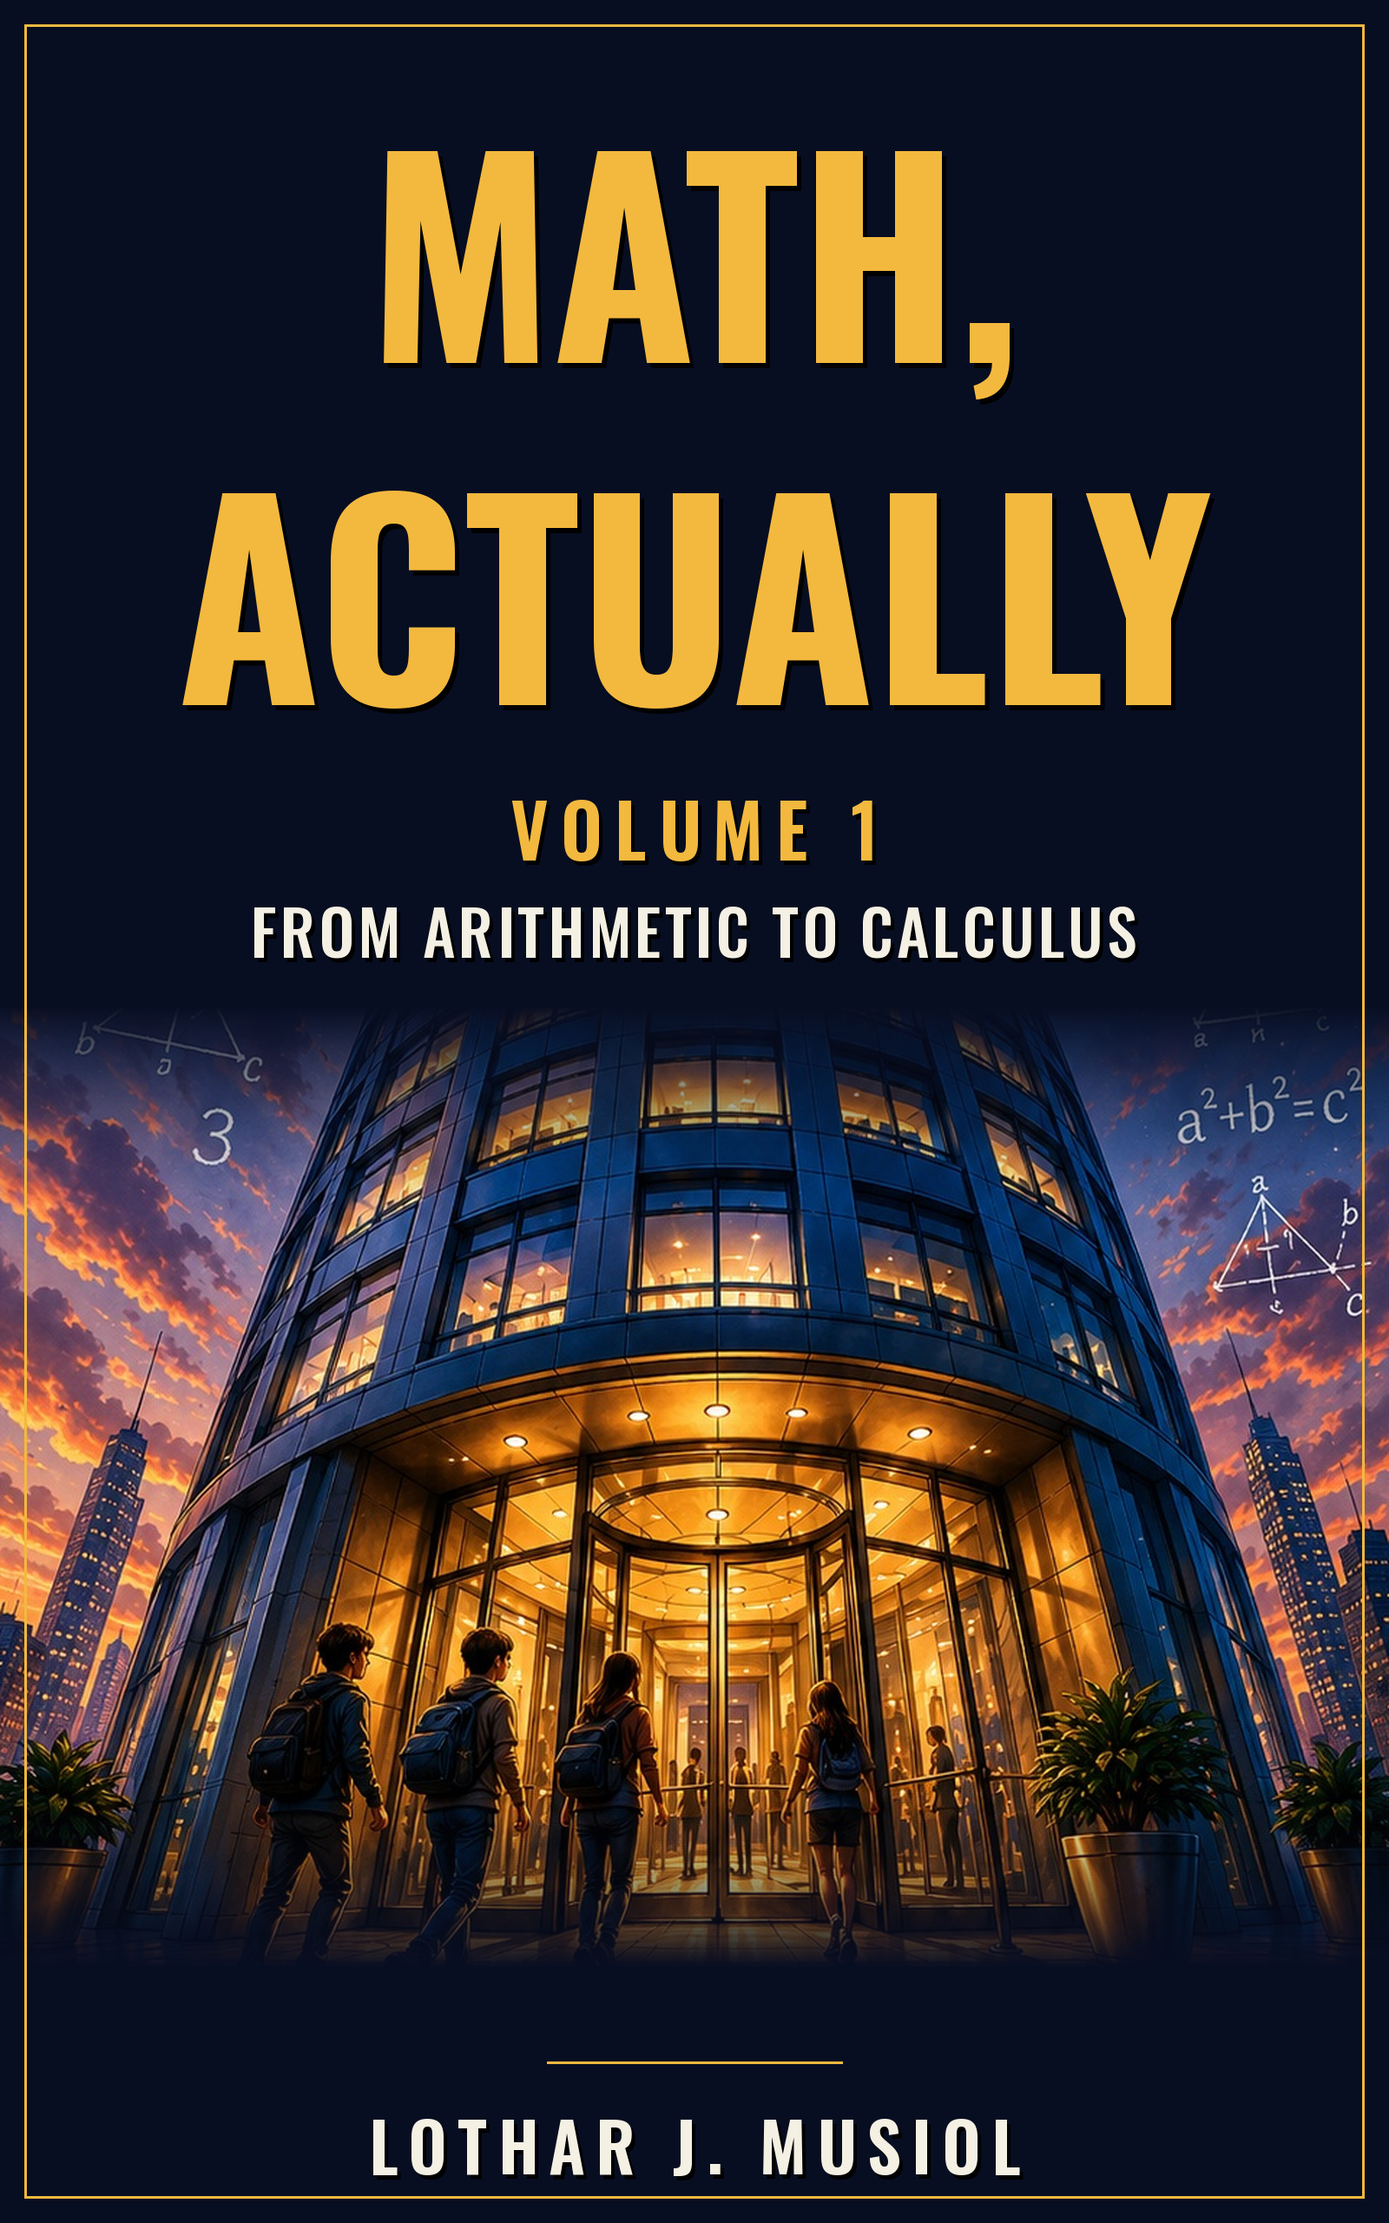
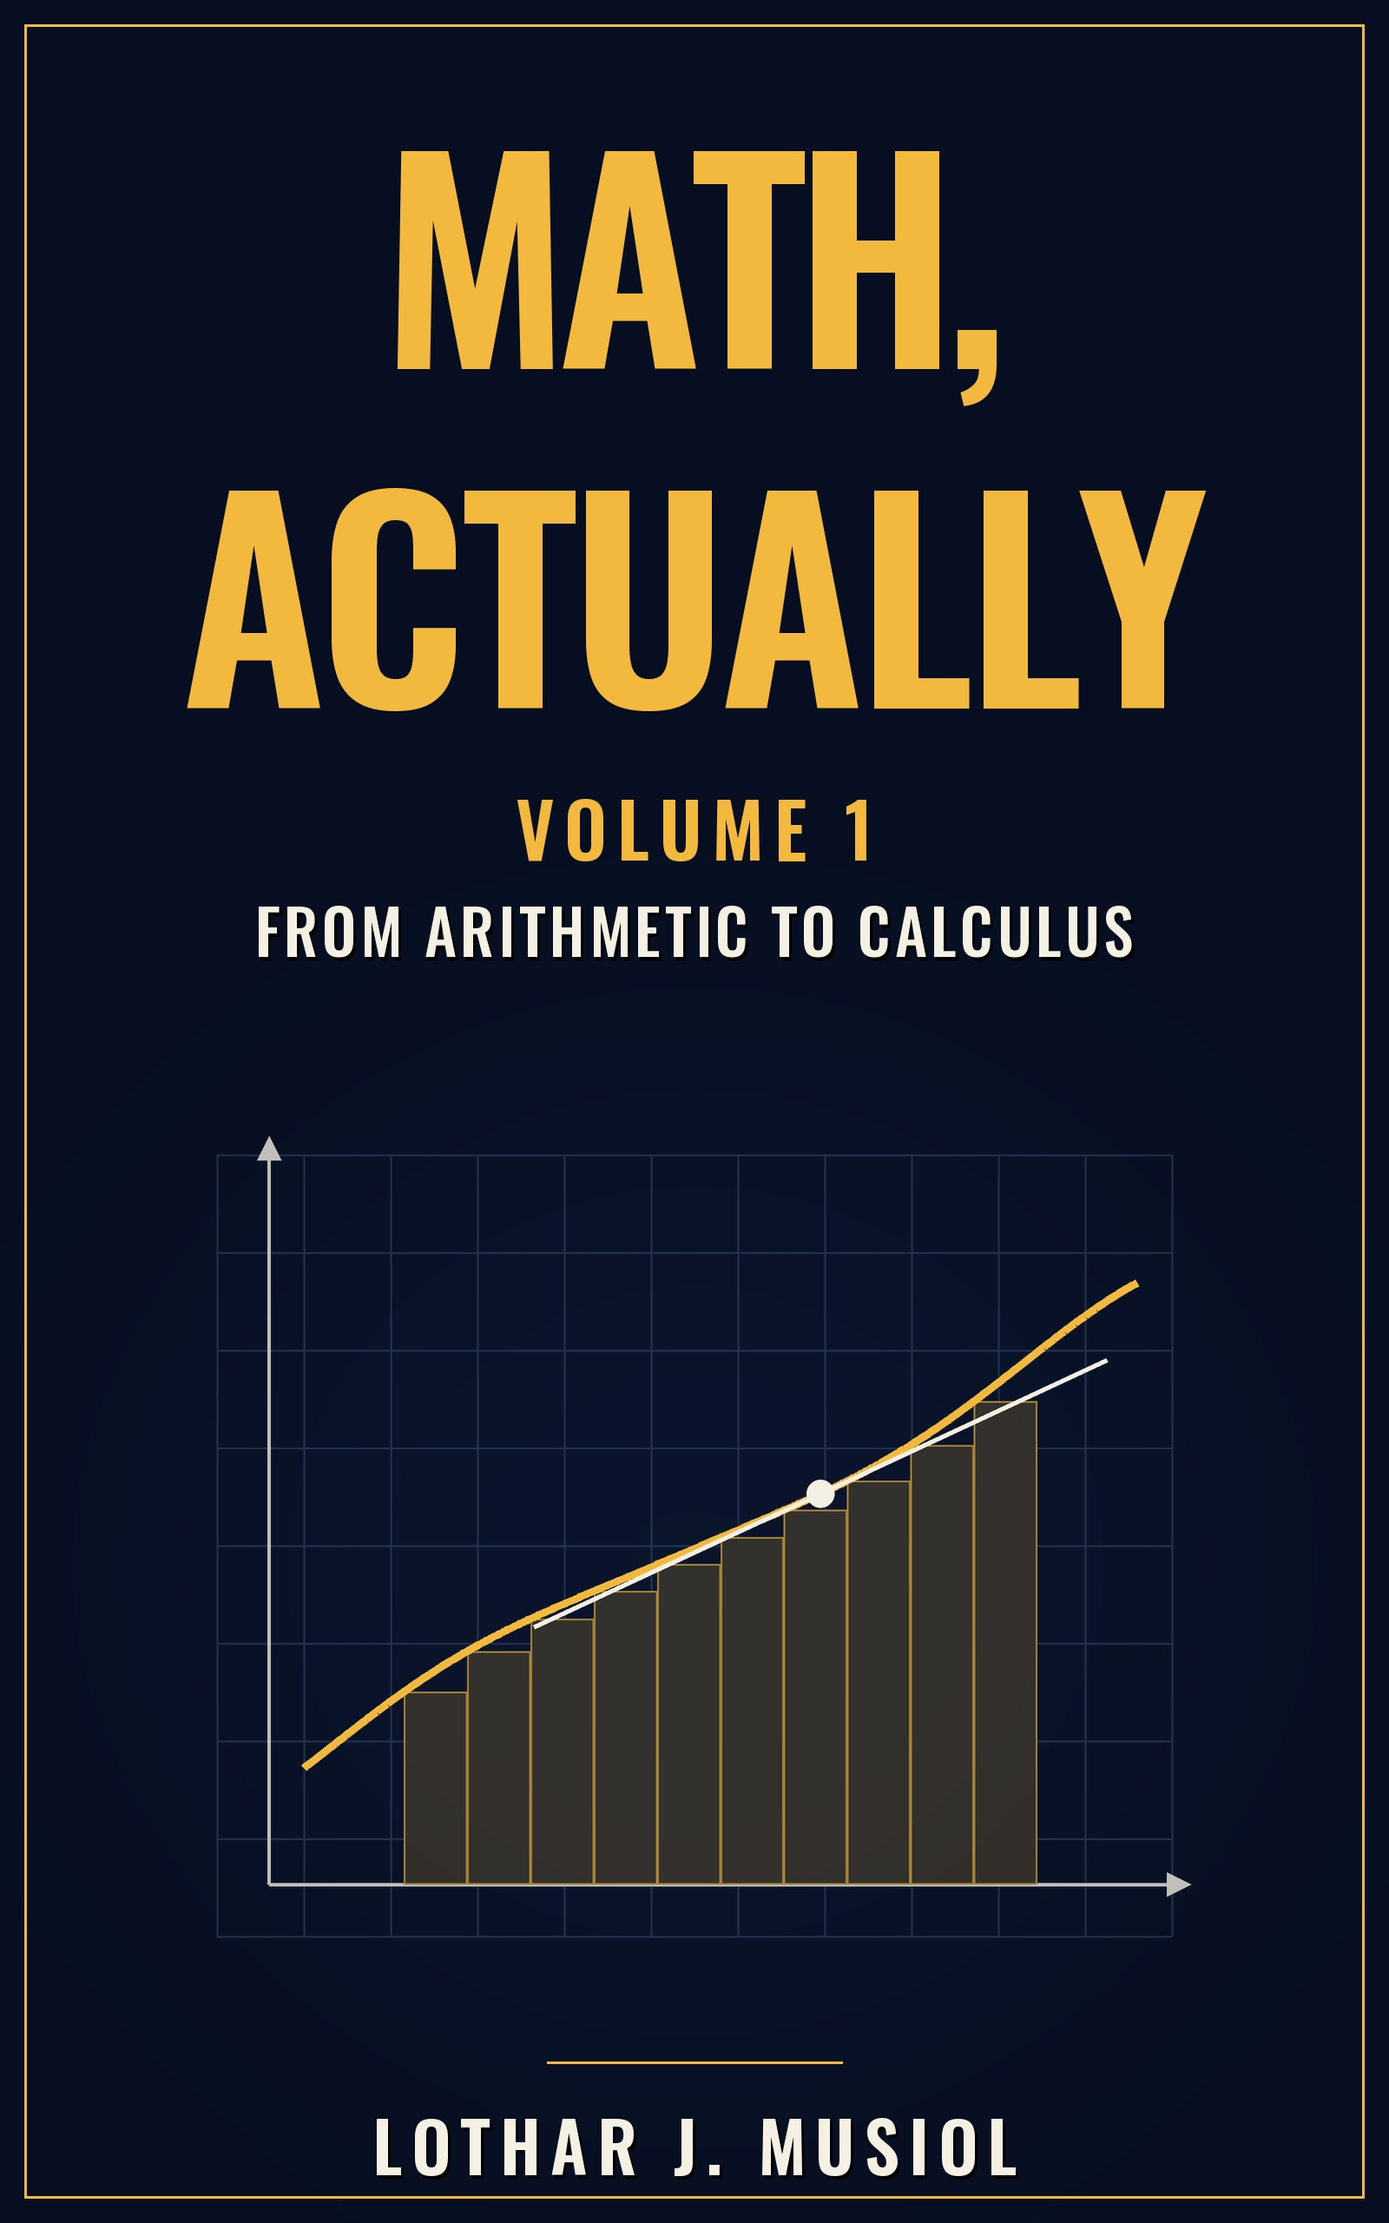
Math, Actually Vols 1-4: front covers redrawn by script without the building (navy and gold, same Oswald typography; motifs: curve with Riemann rectangles and tangent, saddle surface, phase portrait, commutative square); old covers in bak; SCORES front-cover cells

diff --git a/Math, Actually - SERIES/scripts/make_ma_front_covers.py b/Math, Actually - SERIES/scripts/make_ma_front_covers.py
@@ -1,0 +1,185 @@
+"""Math, Actually - Kindle front covers, Volumes 1-4 (1600x2560), drawn by script.
+Navy and gold, Oswald type as on the earlier covers; the illustration band is a mathematical
+motif per volume instead of the building scenes:
+  1 From Arithmetic to Calculus          - a curve on a grid, Riemann rectangles and a tangent
+  2 From Multivariable Calculus to Logic - a saddle surface z = x^2 - y^2 as a wire mesh
+  3 From Differential Equations to Algebra - phase portrait of a damped oscillator
+  4 From Category Theory to the Frontier - a commutative square with its diagonal
+Fonts: Oswald, EB Garamond (Google Fonts, OFL). Set GOOGLE_FONTS to their folder if not on the box.
+Usage: python make_ma_front_covers.py [out_dir]   -> "Cover  Volume N.jpg" """
+import os, sys, math
+from PIL import Image, ImageDraw, ImageFont, ImageFilter
+G = os.environ.get('GOOGLE_FONTS', '/usr/share/fonts/truetype/sand-box/google/')
+OUT = sys.argv[1] if len(sys.argv) > 1 else '.'
+W, H = 1600, 2560
+NAVY = (7, 14, 33); GOLD = (243, 185, 62); CREAM = (244, 240, 228); BLUE = (120, 160, 215)
+VOLS = {1: ['FROM ARITHMETIC TO CALCULUS'], 2: ['FROM MULTIVARIABLE CALCULUS', 'TO SET THEORY & LOGIC'],
+        3: ['FROM DIFFERENTIAL EQUATIONS', 'TO ABSTRACT ALGEBRA'], 4: ['FROM CATEGORY THEORY', 'TO THE FRONTIER']}
+
+def oswald(size, wght=600):
+    f = ImageFont.truetype(G + 'Oswald/Oswald-VariableFont_wght.ttf', size)
+    try: f.set_variation_by_axes([wght])
+    except Exception: pass
+    return f
+def garamond(size, italic=True):
+    p = G + ('EB_Garamond/EBGaramond-Italic-VariableFont_wght.ttf' if italic else 'EB_Garamond/EBGaramond-VariableFont_wght.ttf')
+    return ImageFont.truetype(p, size)
+
+def tracked(d, cx, top, text, font, track, fill, shadow=False):
+    """Centre text at cx with letter spacing; top = top of the capitals."""
+    widths = [d.textlength(c, font=font) for c in text]
+    total = sum(widths) + track * (len(text) - 1)
+    asc = font.getbbox('H')[1]
+    x = cx - total / 2
+    for c, w in zip(text, widths):
+        if shadow: d.text((x + 3, top - asc + 4), c, font=font, fill=(0, 0, 0))
+        d.text((x, top - asc), c, font=font, fill=fill); x += w + track
+    return total
+
+def fit(text, cap, width, wght):
+    """font size giving this cap height, and the tracking giving this width"""
+    s = 20
+    while True:
+        f = oswald(s, wght); b = f.getbbox('H')
+        if b[3] - b[1] >= cap: break
+        s += 1
+    tmp = ImageDraw.Draw(Image.new('RGB', (10, 10)))
+    w0 = sum(tmp.textlength(c, font=f) for c in text)
+    return f, (width - w0) / max(1, len(text) - 1)
+
+def base(vol):
+    img = Image.new('RGB', (W, H), NAVY)
+    # a faint glow behind the motif
+    glow = Image.new('L', (W, H), 0); gd = ImageDraw.Draw(glow)
+    gd.ellipse((200, 1250, 1400, 2350), fill=60); glow = glow.filter(ImageFilter.GaussianBlur(220))
+    img = Image.composite(Image.new('RGB', (W, H), (22, 38, 78)), img, glow)
+    d = ImageDraw.Draw(img)
+    d.rectangle((28, 28, W - 29, H - 29), outline=GOLD, width=3)
+    f, t = fit('MATH,', 250, 720, 600); tracked(d, W / 2, 174, 'MATH,', f, t, GOLD)
+    f, t = fit('ACTUALLY', 250, 1182, 600); tracked(d, W / 2, 565, 'ACTUALLY', f, t, GOLD)
+    f, t = fit('VOLUME %d' % vol, 70, 413, 600); tracked(d, W / 2, 921, 'VOLUME %d' % vol, f, t, GOLD)
+    fs, ts = fit('FROM ARITHMETIC TO CALCULUS', 58, 1013, 500)
+    y = 1044
+    for line in VOLS[vol]:
+        tracked(d, W / 2, y, line, fs, ts, CREAM, shadow=True); y += 102
+    d.line((630, 2375, 970, 2375), fill=GOLD, width=3)
+    f, t = fit('LOTHAR J. MUSIOL', 65, 743, 600); tracked(d, W / 2, 2440, 'LOTHAR J. MUSIOL', f, t, CREAM, shadow=True)
+    return img
+
+S = 2  # supersampling for the line art
+def layer():
+    return Image.new('RGBA', (W * S, H * S), (0, 0, 0, 0))
+def P(x, y): return (x * S, y * S)
+
+def motif1(L):
+    d = ImageDraw.Draw(L)
+    x0, x1, y0, y1 = 250, 1350, 1330, 2230          # plot box
+    for i in range(12):
+        x = x0 + i * (x1 - x0) / 11; d.line([P(x, y0), P(x, y1)], fill=BLUE + (55,), width=2 * S)
+    for i in range(9):
+        y = y0 + i * (y1 - y0) / 8; d.line([P(x0, y), P(x1, y)], fill=BLUE + (55,), width=2 * S)
+    ax, ay = x0 + 60, y1 - 60
+    d.line([P(ax, ay), P(x1, ay)], fill=CREAM + (200,), width=4 * S); d.line([P(ax, ay), P(ax, y0)], fill=CREAM + (200,), width=4 * S)
+    d.polygon([P(x1 + 22, ay), P(x1 - 6, ay - 14), P(x1 - 6, ay + 14)], fill=CREAM + (200,))
+    d.polygon([P(ax, y0 - 22), P(ax - 14, y0 + 6), P(ax + 14, y0 + 6)], fill=CREAM + (200,))
+    f = lambda u: ay - (120 + 520 * (0.5 + 0.5 * math.tanh((u - 0.45) * 4)) + 90 * math.sin(u * 7))  # u in 0..1
+    X = lambda u: ax + 40 + u * (x1 - ax - 80)
+    n = 10; a, b = 0.12, 0.88
+    for k in range(n):
+        u = a + (b - a) * k / n; u2 = a + (b - a) * (k + 1) / n
+        top = f(u)
+        d.rectangle([P(X(u), top), P(X(u2), ay)], fill=GOLD + (45,), outline=GOLD + (170,), width=2 * S)
+    pts = [P(X(u / 400), f(u / 400)) for u in range(0, 401)]
+    d.line(pts, fill=GOLD + (255,), width=9 * S, joint='curve')
+    u = 0.62; h = 1e-4; slope = (f(u + h) - f(u - h)) / (X(u + h) - X(u - h))
+    px, py = X(u), f(u); dx = 330
+    d.line([P(px - dx, py - slope * dx), P(px + dx, py + slope * dx)], fill=CREAM + (255,), width=5 * S)
+    d.ellipse([P(px - 16, py - 16), P(px + 16, py + 16)], fill=CREAM + (255,))
+
+def motif2(L):
+    d = ImageDraw.Draw(L)
+    cx, cy, sc = 800, 1800, 360
+    ca, sa = math.cos(math.radians(35)), math.sin(math.radians(35))
+    def proj(x, y):
+        z = x * x - y * y
+        az = math.radians(28); X = x * math.cos(az) - y * math.sin(az); Y = (x * math.sin(az) + y * math.cos(az)) * 0.5 - z * 0.5
+        return P(cx + X * sc * 1.05, cy + Y * sc)
+    N = 14; R = 1.25
+    for i in range(N + 1):
+        t = -R + 2 * R * i / N
+        a = [proj(t, -R + 2 * R * k / 120) for k in range(121)]
+        b = [proj(-R + 2 * R * k / 120, t) for k in range(121)]
+        w = 6 if i in (0, N, N // 2) else 3
+        d.line(a, fill=GOLD + (235 if w == 6 else 170,), width=w * S, joint='curve')
+        d.line(b, fill=BLUE + (230 if w == 6 else 150,), width=w * S, joint='curve')
+    # the saddle point
+    x, y = proj(0, 0); d.ellipse([x - 16 * S, y - 16 * S, x + 16 * S, y + 16 * S], fill=CREAM + (255,))
+
+def motif3(L):
+    d = ImageDraw.Draw(L)
+    cx, cy, sc = 800, 1790, 175
+    F = lambda x, y: (y, -x - 0.35 * y)
+    for i in range(-7, 8):
+        for j in range(-5, 6):
+            x, y = i * 0.6, j * 0.6
+            u, v = F(x, y); m = math.hypot(u, v) or 1
+            l = 0.22
+            x2, y2 = x + u / m * l, y + v / m * l
+            p1, p2 = (cx + x * sc, cy - y * sc), (cx + x2 * sc, cy - y2 * sc)
+            if not (230 < p1[0] < 1370 and 1300 < p1[1] < 2270): continue
+            d.line([P(*p1), P(*p2)], fill=BLUE + (120,), width=3 * S)
+            ang = math.atan2(p2[1] - p1[1], p2[0] - p1[0])
+            for s in (2.6, -2.6):
+                d.line([P(*p2), P(p2[0] - 12 * math.cos(ang + s), p2[1] - 12 * math.sin(ang + s))], fill=BLUE + (120,), width=3 * S)
+    for (x, y) in [(3.0, 0.0), (-3.0, 0.5), (0.0, 2.6), (0.5, -2.7)]:
+        pts = []
+        for k in range(4000):
+            if not (230 < cx + x * sc < 1370 and 1300 < cy - y * sc < 2270): break
+            pts.append(P(cx + x * sc, cy - y * sc))
+            u, v = F(x, y); x += u * 0.004; y += v * 0.004
+        d.line(pts, fill=GOLD + (240,), width=6 * S, joint='curve')
+    d.ellipse([P(cx - 15, cy - 15), P(cx + 15, cy + 15)], fill=CREAM + (255,))
+
+def arrow(d, a, b, col, w, curve=0, dash=False, r=70):
+    (x1, y1), (x2, y2) = a, b
+    L = math.hypot(x2 - x1, y2 - y1); ux, uy = (x2 - x1) / L, (y2 - y1) / L
+    sx, sy, ex, ey = x1 + ux * r, y1 + uy * r, x2 - ux * r, y2 - uy * r
+    mx, my = (sx + ex) / 2 - uy * curve, (sy + ey) / 2 + ux * curve
+    pts = [((1 - t) ** 2 * sx + 2 * (1 - t) * t * mx + t * t * ex, (1 - t) ** 2 * sy + 2 * (1 - t) * t * my + t * t * ey) for t in [k / 60 for k in range(61)]]
+    if dash:
+        for k in range(0, 60, 4): d.line([P(*pts[k]), P(*pts[k + 2])], fill=col, width=w * S)
+    else: d.line([P(*p) for p in pts], fill=col, width=w * S, joint='curve')
+    tx, ty = pts[-1][0] - pts[-3][0], pts[-1][1] - pts[-3][1]; ang = math.atan2(ty, tx)
+    d.polygon([P(ex + 6 * math.cos(ang), ey + 6 * math.sin(ang)), P(ex - 34 * math.cos(ang - 0.42), ey - 34 * math.sin(ang - 0.42)),
+               P(ex - 34 * math.cos(ang + 0.42), ey - 34 * math.sin(ang + 0.42))], fill=col)
+    return pts[30]
+
+def motif4(L):
+    d = ImageDraw.Draw(L)
+    # faint concentric rings and spokes behind the diagram
+    cx, cy = 800, 1790
+    for r in range(120, 640, 85): d.ellipse([P(cx - r, cy - r), P(cx + r, cy + r)], outline=BLUE + (45,), width=2 * S)
+    A, B, C, D = (430, 1440), (1170, 1440), (430, 2140), (1170, 2140)
+    fl = garamond(76 * S); fs = garamond(64 * S)
+    for p, lab in ((A, 'A'), (B, 'B'), (C, 'C'), (D, 'D')):
+        d.ellipse([P(p[0] - 62, p[1] - 62), P(p[0] + 62, p[1] + 62)], fill=NAVY + (255,), outline=GOLD + (255,), width=5 * S)
+        d.text(P(*p), lab, font=fl, fill=CREAM + (255,), anchor='mm')
+    def lab(pt, t, dx, dy): d.text(P(pt[0] + dx, pt[1] + dy), t, font=fs, fill=CREAM + (235,), anchor='mm')
+    m = arrow(d, A, B, GOLD + (255,), 7); lab(m, 'f', 0, -50)
+    m = arrow(d, B, D, GOLD + (255,), 7); lab(m, 'g', 45, 0)
+    m = arrow(d, A, C, GOLD + (255,), 7); lab(m, 'h', -45, 0)
+    m = arrow(d, C, D, GOLD + (255,), 7); lab(m, 'k', 0, 52)
+    m = arrow(d, A, D, BLUE + (230,), 5, dash=True); lab(m, '', 0, 0)
+    d.text(P(cx + 90, cy - 110), 'gf = kh', font=garamond(66 * S), fill=BLUE + (240,), anchor='lm')
+
+def make(vol):
+    img = base(vol)
+    L = layer(); [None, motif1, motif2, motif3, motif4][vol](L)
+    L = L.resize((W, H), Image.LANCZOS)
+    img.paste(L, (0, 0), L)
+    return img
+
+if __name__ == '__main__':
+    for v in (1, 2, 3, 4):
+        im = make(v); im.save(os.path.join(OUT, 'Cover  Volume %d.jpg' % v), quality=92)
+    print('done')

diff --git a/SCORES.md b/SCORES.md
@@ -15,10 +15,10 @@ Release order covers unpublished books only. Rules: highest score with finished 
 | The Permitted Options | Lolly Wren's Curious Science Adventures, Book 2 | ready | 9.1 (10 Oct 2026, strict; 8.6 before that day's fixes) | done (series trade dress, flat illustration) | done (single colour, text only) | good | 0.23 | Paperback wrap once the print page count is final; then upload | 6 (week of 26 Oct) |
 | A Trip Is Not a New Life | Look First, Vol 2 | draft | 8.7 (date not recorded) | missing | missing | good | 1.94 | Make the covers; write the KDP description | 16 (week of 30 Nov) |
 | The Warning That Was Sent Too Late | The Relativistic Investigation Bureau, Book 2 | ready | 8.9 (11 Oct 2026, strict, full read-through; 8.7 on 10 Oct, 8.4 before that day's fixes) | done (Book 1's trade dress, 1600 x 2560, scripts/make_covers.py) | done (single colour, text only) | good | 0.16 | Upload after Book 1: KDP.md has the description, 7 keywords and 3 categories. Optional: tighten the middle chapters' pacing | 8 (week of 2 Nov) |
-| Math, Actually, Volume 1: From Arithmetic to Calculus | Math, Actually, Vol 1 | ready | 9.1 (10 Oct 2026, strict, sampled reread; 8.6 before that day's fixes) | done (2 Oct Math, Actually cover, back in the folder) | done (text-only, navy and gold) | poor | 1.90 | Upload; cover picture still draws a building (art call) | 12 (week of 16 Nov) |
-| Math, Actually, Volume 2: From Multivariable Calculus to Set Theory & Logic | Math, Actually, Vol 2 | ready | 9.0 (10 Oct 2026, strict, sampled reread; 8.5 before) | done (2 Oct cover, back in the folder) | done (text-only, navy and gold) | poor | 2.64 | Upload after Vol 1; cover picture still draws a building (art call) | 13 (week of 23 Nov) |
-| Math, Actually, Volume 3: From Differential Equations to Abstract Algebra | Math, Actually, Vol 3 | ready | 9.1 (10 Oct 2026, strict, sampled reread; 8.7 before) | done (2 Oct cover, back in the folder) | done (text-only, navy and gold) | poor | 2.38 | Upload after Vol 2; cover picture still draws a building (art call) | 14 (week of 23 Nov) |
-| Math, Actually, Volume 4: From Category Theory to the Frontier | Math, Actually, Vol 4 | ready | 9.1 (10 Oct 2026, strict, sampled reread; 8.8 before) | done | done (text-only, navy and gold) | poor | 2.76 | Upload after Vol 3 | 15 (week of 30 Nov) |
+| Math, Actually, Volume 1: From Arithmetic to Calculus | Math, Actually, Vol 1 | ready | 9.1 (10 Oct 2026, strict, sampled reread; 8.6 before that day's fixes) | done (redrawn 10 Oct 2026 by script: navy and gold, a curve on a grid with Riemann rectangles and a tangent, no building; old cover in bak) | done (text-only, navy and gold) | poor | 1.90 | Upload; cover picture still draws a building (art call) | 12 (week of 16 Nov) |
+| Math, Actually, Volume 2: From Multivariable Calculus to Set Theory & Logic | Math, Actually, Vol 2 | ready | 9.0 (10 Oct 2026, strict, sampled reread; 8.5 before) | done (redrawn 10 Oct 2026 by script: navy and gold, a saddle-surface wire mesh, no building; old cover in bak) | done (text-only, navy and gold) | poor | 2.64 | Upload after Vol 1; cover picture still draws a building (art call) | 13 (week of 23 Nov) |
+| Math, Actually, Volume 3: From Differential Equations to Abstract Algebra | Math, Actually, Vol 3 | ready | 9.1 (10 Oct 2026, strict, sampled reread; 8.7 before) | done (redrawn 10 Oct 2026 by script: navy and gold, a phase portrait spiralling into a sink, no building; old cover in bak) | done (text-only, navy and gold) | poor | 2.38 | Upload after Vol 2; cover picture still draws a building (art call) | 14 (week of 23 Nov) |
+| Math, Actually, Volume 4: From Category Theory to the Frontier | Math, Actually, Vol 4 | ready | 9.1 (10 Oct 2026, strict, sampled reread; 8.8 before) | done (redrawn 10 Oct 2026 by script: navy and gold, a commutative square, no building; old cover in bak) | done (text-only, navy and gold) | poor | 2.76 | Upload after Vol 3 | 15 (week of 30 Nov) |
 | The Dolphins' View of History | standalone | ready | 8.7 (10 Oct 2026, strict, sampled reread; was 7.8 strict) | done (1600x2560, dolphin over a timeline) | done (navy, text only) | good | 0.18 | Lothar: the Held Back sections (Xi/Winnie-the-Pooh, Greenland) and the physics chapter's two .md-only sections; resync the .md track with the build | 9 (week of 9 Nov) |
 | In Love with Murder, Actually: A Derailed Mystery in Provence | standalone | draft | ~8.2 (date not recorded) | missing | missing | good | 0.19 | Revision pass toward 8.5+; covers; KDP description | 17 (week of 7 Dec) |
 | The Universe, Actually: What Humanity Currently Understands About Reality | standalone | draft | 8.4 (10 Oct 2026, strict, sampled reread) | done | done | maybe: survey prose that reads aloud well, but some sections lean on equations | 0.33 | REV15: near-duplicate chapters merged (81 to 77), Contents rebuilt, US spelling, links back (99), About/Also-by headings. Next: port the merges into structure.txt; vary the short-sentence rhythm in the densest physics chapters | 18 (week of 7 Dec) |
